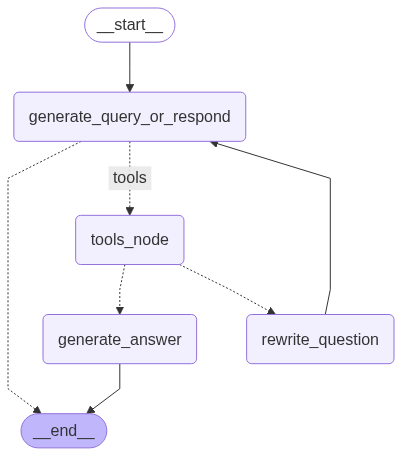
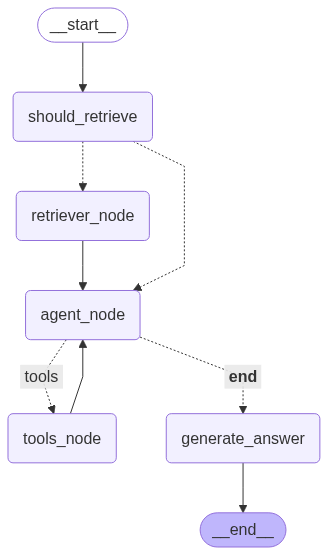
pausing work on this because I am stuck. should I keep the retriever as a tool? can I use a check on summaries and add RAG content as a SystemMessage? --What is the downside of this?

diff --git a/app/services/agent/nodes.py b/app/services/agent/nodes.py
@@ -1,40 +1,66 @@
-from langchain_core.messages import HumanMessage, SystemMessage
+from langchain_core.messages import HumanMessage, SystemMessage, ToolMessage, AIMessage
 from copy import deepcopy
 from .tools import retrieve_for_user_id, tavily_search_tool, query_video, read_image
 from ..llm_service import llm_service
-from .prompts import SYSTEM_PROMPT_TEMPLATE, REWRITE_QUESTION_TEMPLATE
+from .prompts import AGENT_PROMPT_TEMPLATE
 from .schemas import UserMessagesState
 import json
 from langgraph.prebuilt import ToolNode
 
-tools = [retrieve_for_user_id, tavily_search_tool, query_video, read_image]
+
+tools = [tavily_search_tool, query_video, read_image]
 tools_node = ToolNode(tools)
 
-# 1: Take task + Decide whether to respond or retrieve.
-# Node to decide if we need to retrieve or respond
-# If we need to retrieve, "response" will contain a tool call
-# If we don't need to retrieve, "response" will contain a message with the answer
-def generate_query_or_respond(state: UserMessagesState):
+
+def should_retrieve(state: UserMessagesState):
+    question = get_last_human_message(state)
+    # Output a tool call, not the result
+    tool_call = {
+        "name": "retrieve_for_user_id",
+        "args": {
+            "user_id": state["user_id"],
+            "query": question
+        },
+        "id": "retrieve_tool_call"
+    }
+    ai_message = AIMessage(
+        content="Calling retrieve_for_user_id tool.",
+        tool_calls=[tool_call]
+    )
+    return {"messages": [ai_message]}
+
+async def retriever_node(state: UserMessagesState):
+    """Retrieve information from the knowledge base."""
+    # Get the last human input before the retriever_node
+    question = get_last_human_message(state)
+    
+    # Use invoke instead of direct call and await the async function
+    response = await retrieve_for_user_id.ainvoke({"user_id": state["user_id"], "query": question})
+
+    # Create a proper ToolMessage with the tool name
+    tool_message = ToolMessage(
+        content=response,
+        tool_call_id="retrieve_tool_call", 
+        name="retrieve_for_user_id"
+    )
+
+    return {"messages": [tool_message]}
+
+def agent_node(state: UserMessagesState):
     """Decide to retrieve, or simply respond to the user.
     Takes all the messages in the state and returns a response."""
 
     # Get all messages, enhancing the last message with the system prompt
     last_message = state["messages"][-1] # either the first query or a rewritten query
-    sys_prompt = SYSTEM_PROMPT_TEMPLATE.format(question=last_message.content)
-    messages = [*state["messages"][:-1], SystemMessage(content=sys_prompt)]
+    agent_prompt = AGENT_PROMPT_TEMPLATE.format(question=last_message.content)
+    messages = [*state["messages"][:-1], SystemMessage(content=agent_prompt)]
 
+    # Bind tools to the LLM
+    tools.pop(0)
+    print(tools)
     llm_with_tools = llm_service.llm.bind_tools(tools)
     response = llm_with_tools.invoke(messages)
     
-    # If the response contains tool calls, inject user_id into them
-    if response.tool_calls:
-        updated_tool_calls = []
-        for tool_call in response.tool_calls:
-            tool_call_copy = deepcopy(tool_call)
-            tool_call_copy["args"]["user_id"] = state["user_id"]
-            updated_tool_calls.append(tool_call_copy)
-        response.tool_calls = updated_tool_calls
-
     return {"messages": [response]}
 
 def get_last_human_message(state: UserMessagesState):
@@ -44,7 +70,34 @@ def get_last_human_message(state: UserMessagesState):
             return message.content
     return None
 
-# 4. Node to rewrite the question
+def generate_answer(state: UserMessagesState):
+    """Generate an answer."""
+
+    # Get the last human input before the retriever_node
+    question = get_last_human_message(state)
+    sys_prompt = AGENT_PROMPT_TEMPLATE.format(question=question)
+    messages = state["messages"] + [SystemMessage(content=sys_prompt)]
+    response = llm_service.llm.invoke(messages)
+
+    return {"messages": [response]}  # Wrap response in a list
+
+######################################
+############ BACKUP NODES ############
+######################################
+
+# Question Rewriting Prompt
+from langchain_core.prompts import PromptTemplate
+
+REWRITE_QUESTION_TEMPLATE = """
+You are a helpful assistant that helps answer questions. You rewrite the question received to try to extract additional information from your database, to inform yourself and answer the question in a more complete way. This is the question received:
+------- 
+{question}
+-------
+Edit, but do not alter the meaning or intention of a question. Respond to this message in a structured format, with an object with a key "question" and the value set to the edited question. Do not include any other text or formatting.
+For example: Ex: {{"question": "IMPROVED QUESTION?"}}
+"""
+REWRITE_QUESTION_PROMPT_TEMPLATE = PromptTemplate.from_template(REWRITE_QUESTION_TEMPLATE)
+
 def rewrite_question(state: UserMessagesState):
     """Rewrite the original user question."""
     # Get the last human input before the retriever_node
@@ -61,14 +114,3 @@ def rewrite_question(state: UserMessagesState):
     # Add the rewritten question to the existing messages as a HumanMessage
     rewritten_question = HumanMessage(content=response_json["question"])
     return {"messages": [rewritten_question]}
-
-def generate_answer(state: UserMessagesState):
-    """Generate an answer."""
-
-    # Get the last human input before the retriever_node
-    question = get_last_human_message(state)
-    sys_prompt = SYSTEM_PROMPT_TEMPLATE.format(question=question)
-    messages = state["messages"] + [SystemMessage(content=sys_prompt)]
-    response = llm_service.llm.invoke(messages)
-
-    return {"messages": [response]}  # Wrap response in a list

diff --git a/app/services/rag_service_agentic.py b/app/services/rag_service_agentic.py
@@ -15,9 +15,8 @@ from langchain_core.messages import HumanMessage
 
 from ..models.requests import GradeDocuments
 from langgraph.prebuilt import tools_condition
-from .agent.nodes import generate_query_or_respond, rewrite_question, generate_answer, get_last_human_message, tools_node
+from .agent.nodes import should_retrieve, retriever_node, agent_node, generate_answer, get_last_human_message, tools_node   
 from .agent.schemas import UserMessagesState
-from copy import deepcopy
 
 logger = get_logger(__name__)
 
@@ -50,53 +49,35 @@ class RAGServiceAgentic:
         with open(graph_path, "wb") as f:
             f.write(graph_png)
 
+    def route_after_prerag(self, state: UserMessagesState) -> Literal["retriever_node", "agent_node"]:
+        """Route the agent after the pre-RAG node."""
+        return "retriever_node" if state["should_RAG"] else "agent_node"
+    
     def build_graph(self) -> StateGraph:
         """Build the LangGraph pipeline."""
 
         workflow = StateGraph(UserMessagesState)
-
-        def grade_documents_router(
-            state: UserMessagesState,
-        ) -> Literal["generate_answer", "rewrite_question"]:
-            """Determine whether the retrieved documents are relevant to the question."""
-            # Get the last human input before the retriever_node
-            question = get_last_human_message(state)
-            
-            # Get the last message with tool calls
-            context = state["messages"][-1].content
-
-            prompt = GRADE_DOCUMENTS_TEMPLATE.format(question=question, context=context)
-            response = (
-                llm_service.llm
-                .with_structured_output(GradeDocuments).invoke(
-                    [HumanMessage(content=prompt)]
-                )
-            )
-
-            if response.binary_score == "yes":
-                return "generate_answer"
-            else:
-                return "rewrite_question"
         
-        workflow.add_node(generate_query_or_respond)
-        workflow.add_edge(START, "generate_query_or_respond")
-        workflow.add_node("tools_node", tools_node)
+        workflow.add_node(should_retrieve)
+        workflow.add_edge(START, "should_retrieve")
+        workflow.add_node(retriever_node)
+        workflow.add_node(agent_node)
         workflow.add_conditional_edges(
-            "generate_query_or_respond",
+            "should_retrieve",
+            self.route_after_prerag
+        )
+        workflow.add_edge("retriever_node", "agent_node")
+        workflow.add_node("tools_node", tools_node)
+        workflow.add_edge("tools_node", "agent_node")
+        workflow.add_node(generate_answer)
+        workflow.add_conditional_edges(
+            "agent_node",
             tools_condition, # LangGraph's function to check if the LLM's response contains tool calls
             {
                 "tools": "tools_node", # if there is a tool call, go to the tools node
-                END: END, # if there is not a tool call, go to the end node
+                END: "generate_answer", # if there is not a tool call, go to the end node
             },
         )
-        workflow.add_node(rewrite_question)
-        workflow.add_node(generate_answer)
-        
-        workflow.add_conditional_edges(
-            "tools_node",
-            grade_documents_router
-        )
-        workflow.add_edge("rewrite_question", "generate_query_or_respond")
         workflow.add_edge("generate_answer", END)
 
         memory = MemorySaver()
@@ -125,18 +106,19 @@ class RAGServiceAgentic:
             # Add the new user message to the conversation with user_id in state
             initial_state = {
                 "messages": [HumanMessage(content=query)],
-                "user_id": user_id
+                "user_id": user_id,
+                "should_RAG": False
             }
             
             # Invoke graph with initial state and config
             result = await self.graph.ainvoke(initial_state, config=config)
             
-            # Extract sources from tool messages
+            # Extract sources from system messages containing retrieved context
             sources = []
             for message in result["messages"]:
-                # Check if it's a tool message from the retriever
-                if hasattr(message, 'name') and message.name == "retrieve_for_user_id":
-                    extracted_sources = self.extract_sources_from_tool_message(message.content)
+                # Check if it's a system message with retrieved context
+                if hasattr(message, 'content') and isinstance(message.content, str) and message.content.startswith("Retrieved context:\n"):
+                    extracted_sources = self.extract_sources_from_tool_message(message.content.replace("Retrieved context:\n", ""))
                     sources.extend(extracted_sources)
             
             processing_time = time.time() - start_time

diff --git a/app/services/agent/prompts.py b/app/services/agent/prompts.py
@@ -27,20 +27,9 @@ Give a binary score 'yes' or 'no' score to indicate whether the document is rele
 """
 GRADE_DOCUMENTS_PROMPT_TEMPLATE = PromptTemplate.from_template(GRADE_DOCUMENTS_TEMPLATE)
 
-# Question Rewriting Prompt
-REWRITE_QUESTION_TEMPLATE = """
-You are a helpful assistant that helps answer questions. You rewrite the question received to try to extract additional information from your database, to inform yourself and answer the question in a more complete way. This is the question received:
-------- 
-{question}
--------
-Edit, but do not alter the meaning or intention of a question. Respond to this message in a structured format, with an object with a key "question" and the value set to the edited question. Do not include any other text or formatting.
-For example: Ex: {{"question": "IMPROVED QUESTION?"}}
-"""
-REWRITE_QUESTION_PROMPT_TEMPLATE = PromptTemplate.from_template(REWRITE_QUESTION_TEMPLATE)
-
 # Answer Generation Prompt
 
 
-SYSTEM_TEMPLATE = """
-You are a helpful assistant that helps answer questions. Use only what is in the context: the question and the conversation history, with information that comes from your knowledge base. You need to decide whether to search for more context or answer directly. Always consult the base if the question is about internal policies of a company, labor laws, or information about the services and products offered by the company you represent. If you still don't know the answer after searching multiple times, just say you don't know. Respond in no more than three sentences and use the language of the question, directly and clearly. The question is: {question}."""
-SYSTEM_PROMPT_TEMPLATE = PromptTemplate.from_template(SYSTEM_TEMPLATE)
+AGENT_TEMPLATE = """
+You are a helpful assistant that helps answer questions based on the context provided: the question and the conversation history, with information from your knowledge base. You need to decide whether to access new information using a tool or to answer directly. If you still don't know the answer and are unsure about what to do, just say you don't know and ask the user to provide more information. Respond in no more than three sentences, in the same language of the question. Respond directly and clearly. The question is: {question}."""
+AGENT_PROMPT_TEMPLATE = PromptTemplate.from_template(AGENT_TEMPLATE)

diff --git a/app/services/agent/tools.py b/app/services/agent/tools.py
@@ -19,10 +19,10 @@ def tavily_search_tool(
     """Perform a search on Tavily"""
     return TavilySearch(max_results=3).run(query)
 
-@tool
-async def retrieve_for_user_id(query: str, user_id: Annotated[str, InjectedToolArg]) -> str:
+async def retrieve_for_user_id(user_id: str, query: str) -> str:
   """Search and return information from a user-specific knowledge base."""
   return await retrieve_execute_parallel(user_id, query)
+
 
 def encode_image(image_path: str) -> str:
     """

diff --git a/app/services/agent/schemas.py b/app/services/agent/schemas.py
@@ -7,3 +7,4 @@ class UserMessagesState(TypedDict):
     messages: Annotated[list[BaseMessage], add]
     sources: Annotated[list[str], add]
     user_id: str
+    should_RAG: bool
